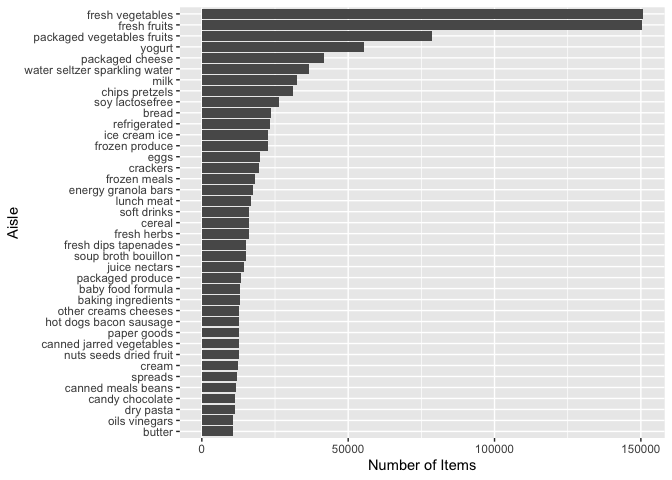
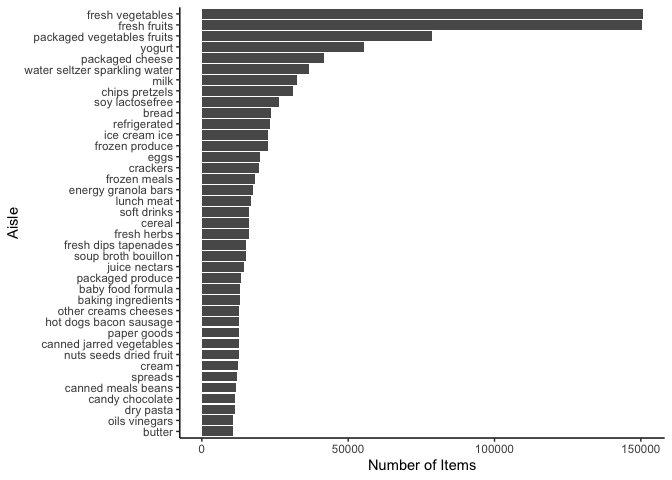
Finalized.

diff --git a/p8105_hw3_mx2262.md b/p8105_hw3_mx2262.md
@@ -4,20 +4,6 @@ Mingkuan Xu
 
 ``` r
 library(tidyverse)
-```
-
-    ## ── Attaching packages ─────────────────────────────────────── tidyverse 1.3.1 ──
-
-    ## ✓ ggplot2 3.3.5     ✓ purrr   0.3.4
-    ## ✓ tibble  3.1.4     ✓ dplyr   1.0.7
-    ## ✓ tidyr   1.1.3     ✓ stringr 1.4.0
-    ## ✓ readr   2.0.1     ✓ forcats 0.5.1
-
-    ## ── Conflicts ────────────────────────────────────────── tidyverse_conflicts() ──
-    ## x dplyr::filter() masks stats::filter()
-    ## x dplyr::lag()    masks stats::lag()
-
-``` r
 library(p8105.datasets)
 ```
 
@@ -94,7 +80,8 @@ instacart_by_aisle %>%
   geom_bar(stat="identity") +
   xlab("Aisle")+
   ylab("Number of Items") +
-  coord_flip()
+  coord_flip()+
+  theme_classic()
 ```
 
 ![](p8105_hw3_mx2262_files/figure-gfm/p1_part3-1.png)<!-- -->
@@ -275,11 +262,6 @@ data_brfss_excellent =
   summarize(
     mean_value = mean(data_value)
   ) 
-```
-
-    ## `summarise()` has grouped output by 'year'. You can override using the `.groups` argument.
-
-``` r
 ggplot(data_brfss_excellent,aes(x=year,y=mean_value,color=locationabbr)) + 
   geom_line() +
   geom_point() +
@@ -431,4 +413,63 @@ ggplot(data_accel_wholeday,aes(x=day_id,y=activity_total)) +
   labs(color="is_weekday")
 ```
 
-![](p8105_hw3_mx2262_files/figure-gfm/p3_part2-1.png)<!-- -->
+![](p8105_hw3_mx2262_files/figure-gfm/p3_part2-1.png)<!-- --> From the
+data of aggregated total activity, we do not find a trend of overall
+decreasing or increasing, but we do observe the total values are very
+unstable from the beginning to the end, with huge variance between days.
+Additionally, when taking into account the weekday/weekend variable, it
+looks like after day 20, on each Saturday there will be a huge decrease
+of the value.
+
+#### Part 3 - The 24-hour activity time courses for each day
+
+``` r
+data_accel_long = data_accel %>% 
+  pivot_longer(activity_1:activity_1440,names_to="activity",names_prefix = "activity_") %>%
+  mutate(activity = as.numeric(activity))
+
+ggplot(data_accel_long, aes(x=activity,y=value,group=day_id)) + 
+  geom_line(aes(color=day))+
+  ylab("Average Value")+
+  xlab("Minutes")+
+  labs(
+    title = "The 24-Hour Activity Time Courses for Each Day (in Minute)",
+    color = "Days"
+  )+
+  theme_classic()
+```
+
+![](p8105_hw3_mx2262_files/figure-gfm/p3_part3-1.png)<!-- -->
+
+``` r
+data_accel_long_60 = data_accel %>% 
+  pivot_longer(activity_1:activity_1440,names_to="activity",names_prefix = "activity_") %>%
+  mutate(hour = as.numeric(activity) %/% 60) %>%
+  group_by(day_id,day,hour) %>%
+  summarize(
+    average = mean(value)
+  )
+```
+
+    ## `summarise()` has grouped output by 'day_id', 'day'. You can override using the `.groups` argument.
+
+``` r
+ggplot(data_accel_long_60, aes(x=hour,y=average,group=day_id)) + 
+  geom_line(aes(color=day))+
+  ylab("Average Value")+
+  xlab("Hours")+
+  labs(
+    title = "The 24-Hour Activity Time Courses for Each Day (in Hour)",
+    color = "Days"
+  )+
+  theme_classic()
+```
+
+![](p8105_hw3_mx2262_files/figure-gfm/p3_part3_2-1.png)<!-- -->
+
+From these two plots, we observe that the values tend to stay in a lower
+level in the morning, and begin to increase at around 5 am (possibly
+after getting up) and reach a high level at noon. The values seem to
+decrease in the afternoon and bounce back in the evening. They drop back
+to a lower level usually at the end of the day. No obvious patterns
+related to days were observed.
